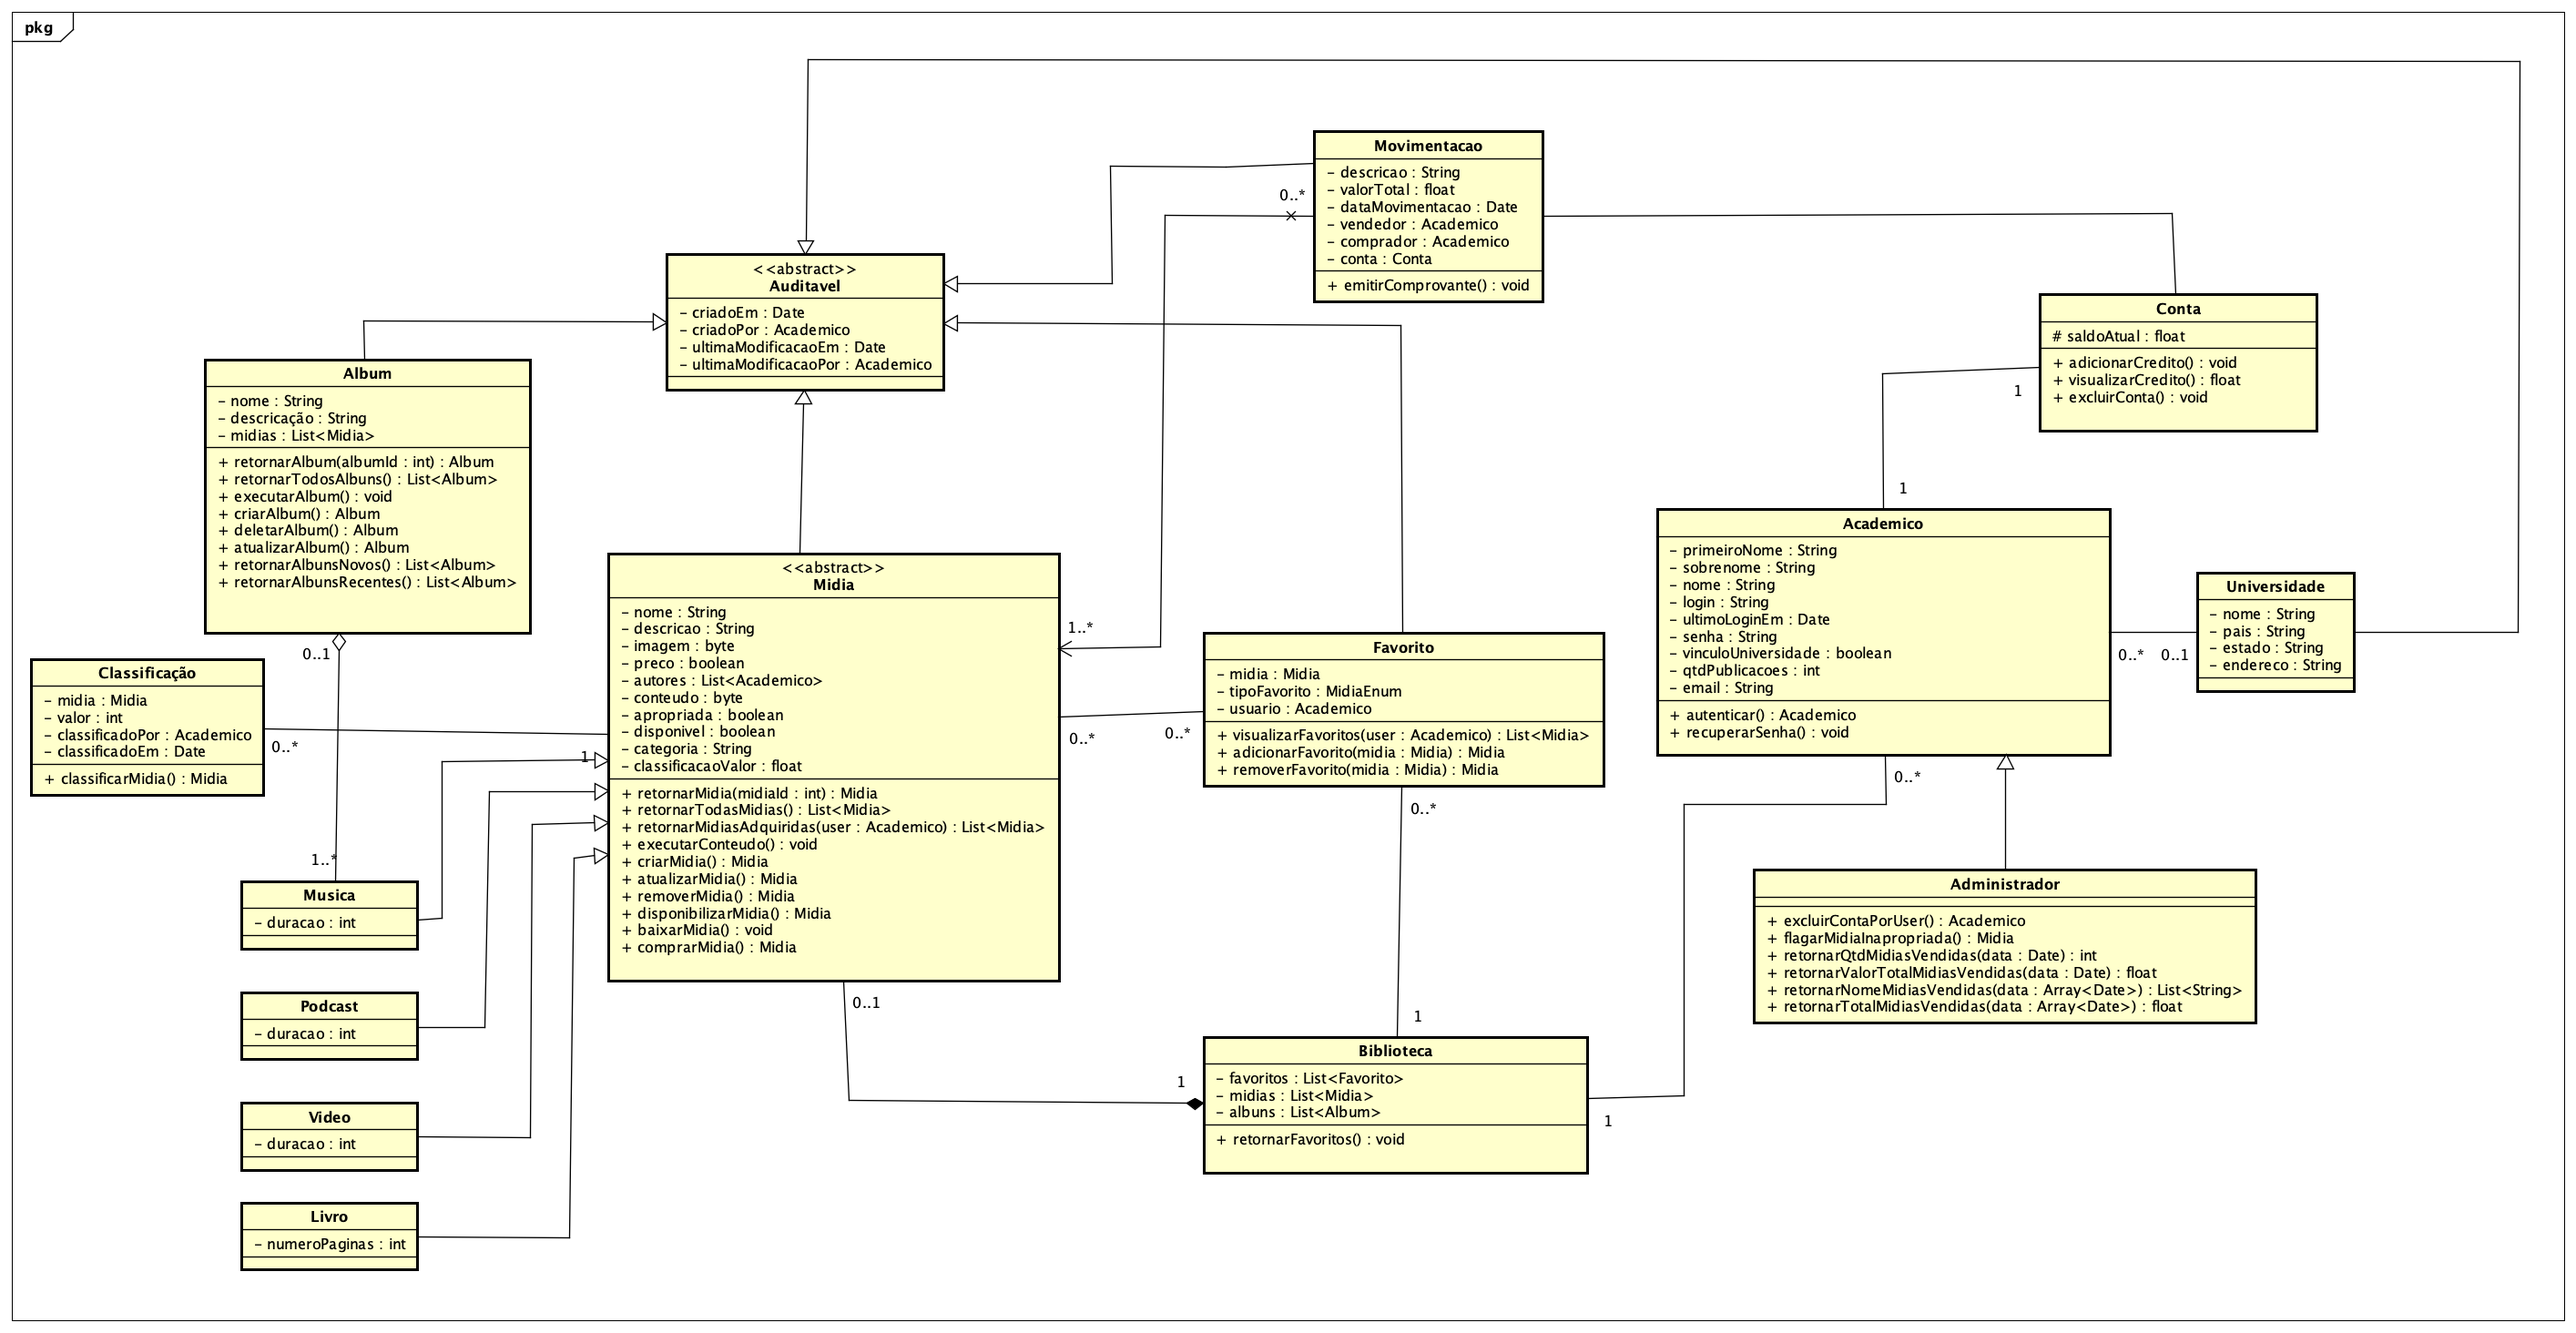
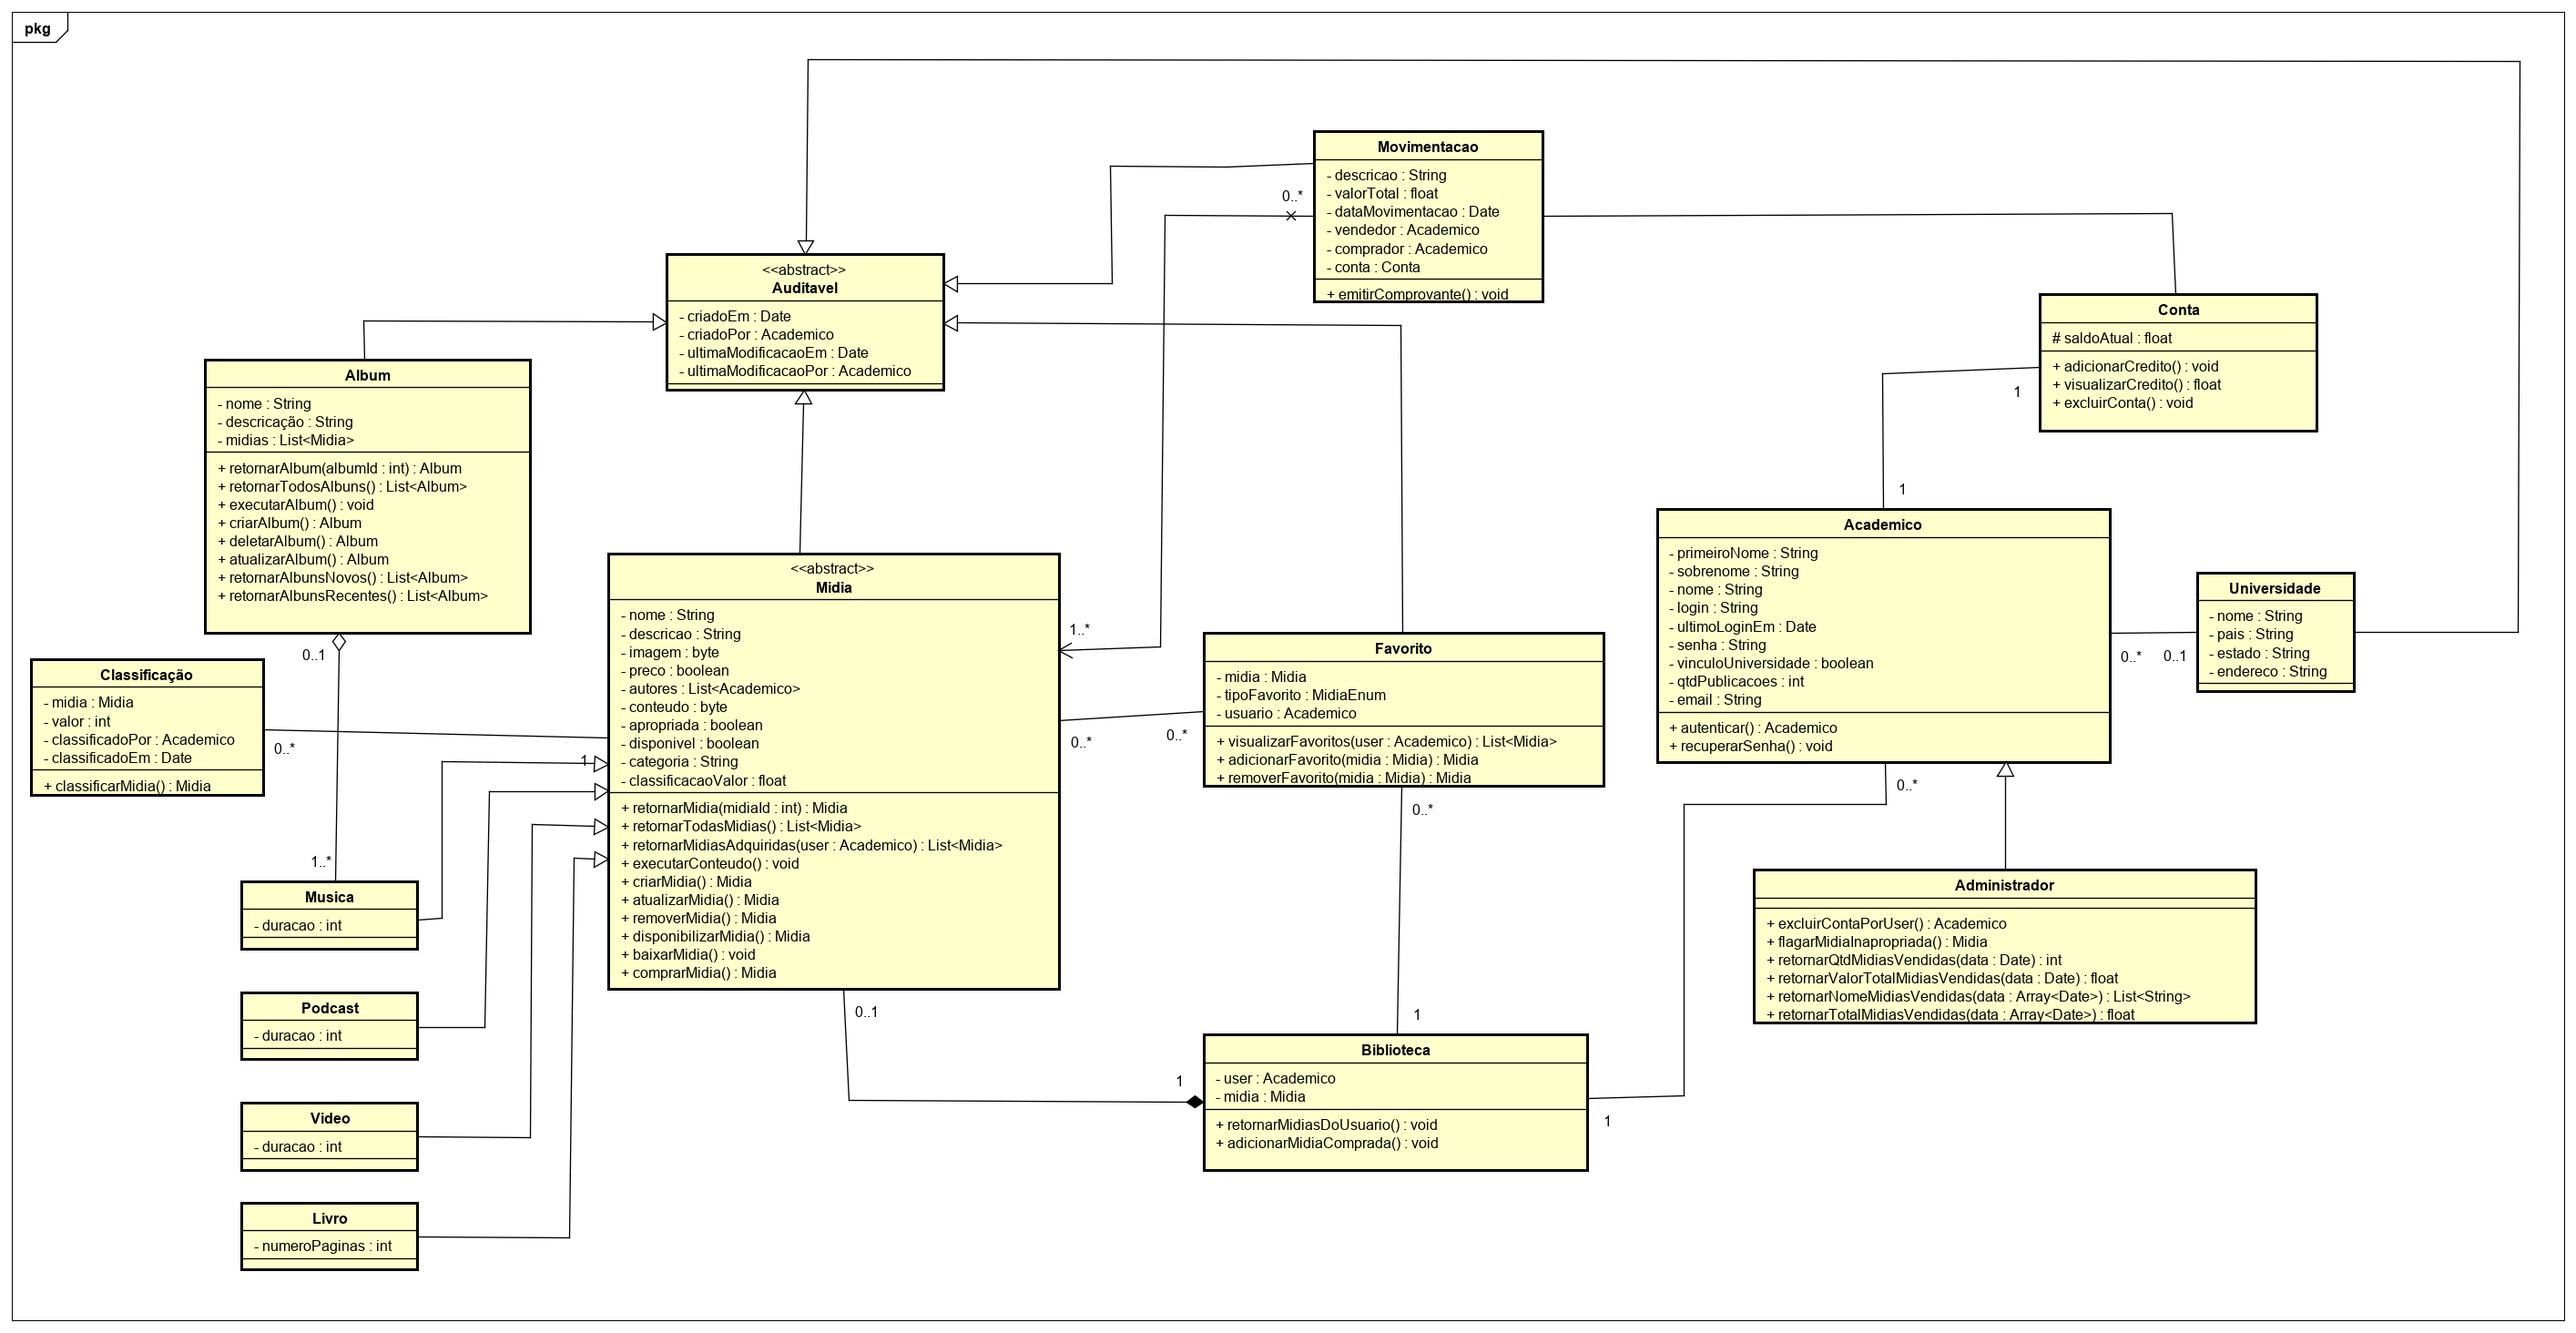
Changed library purpose

diff --git a/src/backend/src/services/MediaService.js b/src/backend/src/services/MediaService.js
@@ -1,5 +1,6 @@
 const Media = require('../models/Media');
 const MovimentationService = require('./MovimentationService');
+const LibraryService = require('./LibraryService');
 const BaseService = require('./BaseService')(Media);
 
 BaseService.getAllReleased = async function () {
@@ -7,18 +8,6 @@ BaseService.getAllReleased = async function () {
     let query = { 'isAvailable': true };
 
     return await Media.find(query).select(['-content', '-image']);
-  } catch (e) {
-    console.log("Reported Error:", e);
-  }
-};
-
-BaseService.getAllByUser = async function (userId) {
-  try {
-    let mediaIds = await MovimentationService.getMediasRefsByUser(userId);
-    let query = { '_id': { '$in:': mediaIds } };
-    let data = await Media.find(query).select(['-content', '-image'])
-
-    return data;
   } catch (e) {
     console.log("Reported Error:", e);
   }
@@ -59,9 +48,17 @@ BaseService.download = async function (id) {
   }
 };
 
-BaseService.buy = async function (id) {
+BaseService.buy = async function (movimentation) {
   try {
-    // TODO : add into movimentation
+    let movimentation = await MovimentationService.insert(movimentation);
+
+    for (let item in movimentation['medias']) {
+      await LibraryService.insert({ 'user': movimentation['buyer'], 'media': item });
+    }
+
+    // TODO: Update account value
+
+    return movimentation;
   } catch (e) {
     console.log("Reported Error:", e);
   }

diff --git a/src/backend/src/services/LibraryService.js b/src/backend/src/services/LibraryService.js
@@ -1,20 +1,15 @@
-const FavoriteService = require('./FavoriteService');
-const MediaService = require('./MediaService');
+const Library = require('../models/Library');
+const BaseService = require('./BaseService')(Library);
 
-module.exports = {
-  async getAllByUser(userId) {
-    try {
-      let favorites = await FavoriteService.getAllByUser(userId);
-      let medias = await MediaService.getAllByUser(userId);
-      // TODO: Get all albums by user
+BaseService.getAllByUser = async function (userId) {
+  try {
+    let query = { 'user': userId };
+    let data = await Library.find(query);
 
-      return {
-        'medias': medias,
-        'albums': null,
-        'favorites': favorites
-      };
-    } catch (e) {
-      console.log("Reported Error:", e);
-    }
+    return data;
+  } catch (e) {
+    console.log("Reported Error:", e);
   }
-}
+};
+
+module.exports = BaseService;

diff --git a/src/backend/src/controllers/MediaController.js b/src/backend/src/controllers/MediaController.js
@@ -12,18 +12,6 @@ BaseController.getAllReleased = async function (req, res) {
   }
 };
 
-BaseController.getAllByUser = async function (req, res) {
-  try {
-    let userId = req.params.userId;
-    let data = await MediaService.getAllByUser(userId);
-
-    return res.json(data);
-  } catch (e) {
-    console.log("Reported Error:", e);
-    res.status(500).send(e);
-  }
-};
-
 BaseController.getContent = async function (req, res) {
   try {
     let id = req.params.id;
@@ -62,8 +50,8 @@ BaseController.download = async function (req, res) {
 
 BaseController.buy = async function (req, res) {
   try {
-    let id = req.params.id;
-    let data = await MediaService.buy(id);
+    let payload = req.body;
+    let data = await MediaService.buy(payload);
 
     return res.json(data);
   } catch (e) {

diff --git a/src/backend/src/routes/MovimentationRoutes.js b/src/backend/src/routes/MovimentationRoutes.js
@@ -8,6 +8,7 @@ routes.post('/', MovimentationController.insert);
 routes.put('/:id', MovimentationController.update);
 routes.delete('/:id', MovimentationController.remove);
 routes.get('/:id/receipt', MovimentationController.generateReceipt);
+routes.post('/seller/:id', MovimentationController.getAllBySeller);
 
 module.exports = routes; 
 
@@ -18,4 +19,5 @@ insert              - criar
 update              - atualizar
 remove              - excluir
 generateReceipt     - emitirComprovante
+getAllBySeller      - retornaMovitaçãoDoUsuario
 */

diff --git a/src/backend/src/services/MovimentationService.js b/src/backend/src/services/MovimentationService.js
@@ -15,11 +15,11 @@ BaseService.getAllByAccount = async function (DTO) {
   }
 };
 
-BaseService.getMediasRefsByUser = async function (userId) {
+BaseService.getAllBySeller = async function (userId) {
   try {
-    let query = { 'buyer': userId };
+    let query = { 'seller': userId };
 
-    return await Movimentation.find(query).select('medias');
+    return await Movimentation.find(query);
   } catch (e) {
     console.log("Reported Error:", e);
   }

diff --git a/src/backend/src/models/Library.js b/src/backend/src/models/Library.js
@@ -2,8 +2,6 @@ const { Schema, model } = require('mongoose');
 
 const LibrarySchema = new Schema({
   user: { type: Schema.Types.ObjectId, ref: 'Academic' },
-  medias: [{ type: Schema.Types.ObjectId, ref: 'Media' }],
-  albums: [{ type: Schema.Types.ObjectId, ref: 'Album' }],
-  favorites: { type: Schema.Types.ObjectId, ref: 'Favorite' },
+  media: { type: Schema.Types, ref: 'Media' }
 });
 module.exports = model('Library', LibrarySchema);

diff --git a/src/backend/src/controllers/MovimentationController.js b/src/backend/src/controllers/MovimentationController.js
@@ -31,5 +31,17 @@ BaseController.generateReceipt = async function (req, res) {
   }
 };
 
+BaseController.getAllBySeller = async function (req, res) {
+  try {
+    let id = req.params.id;
+    let data = await MovimentationService.getAllBySeller(id);
+
+    return res.json(data);
+  } catch (e) {
+    console.log("Reported Error:", e);
+    res.status(500).send(e);
+  }
+};
+
 
 module.exports = BaseController;

diff --git a/src/backend/src/routes/MediaRoutes.js b/src/backend/src/routes/MediaRoutes.js
@@ -4,7 +4,6 @@ const MediaController = require('../controllers/MediaController');
 
 routes.get('/', MediaController.getAll);
 routes.get('/released', MediaController.getAllReleased);
-routes.get('/user/:userId', MediaController.getAllByUser);
 routes.get('/:id', MediaController.getById);
 routes.post('/', MediaController.insert);
 routes.put('/:id', MediaController.update);

diff --git a/src/backend/src/routes/LibraryRoutes.js b/src/backend/src/routes/LibraryRoutes.js
@@ -2,6 +2,7 @@ const express = require('express');
 const routes = express.Router();
 const LibraryController = require('../controllers/LibraryController');
 
+routes.get('/:id', LibraryController.getById);
 routes.get('/user/:id', LibraryController.getAllByUser);
 
 module.exports = routes;

diff --git a/src/backend/src/controllers/LibraryController.js b/src/backend/src/controllers/LibraryController.js
@@ -16,5 +16,5 @@ BaseController.getAllByUser = async function (req, res) {
 module.exports = BaseController;
 
 /*
-getAllByUser          - retornaFavoritosPorUsuario
+getAllByUser          - retornaMidiasCompradasPorUsuario
 */
